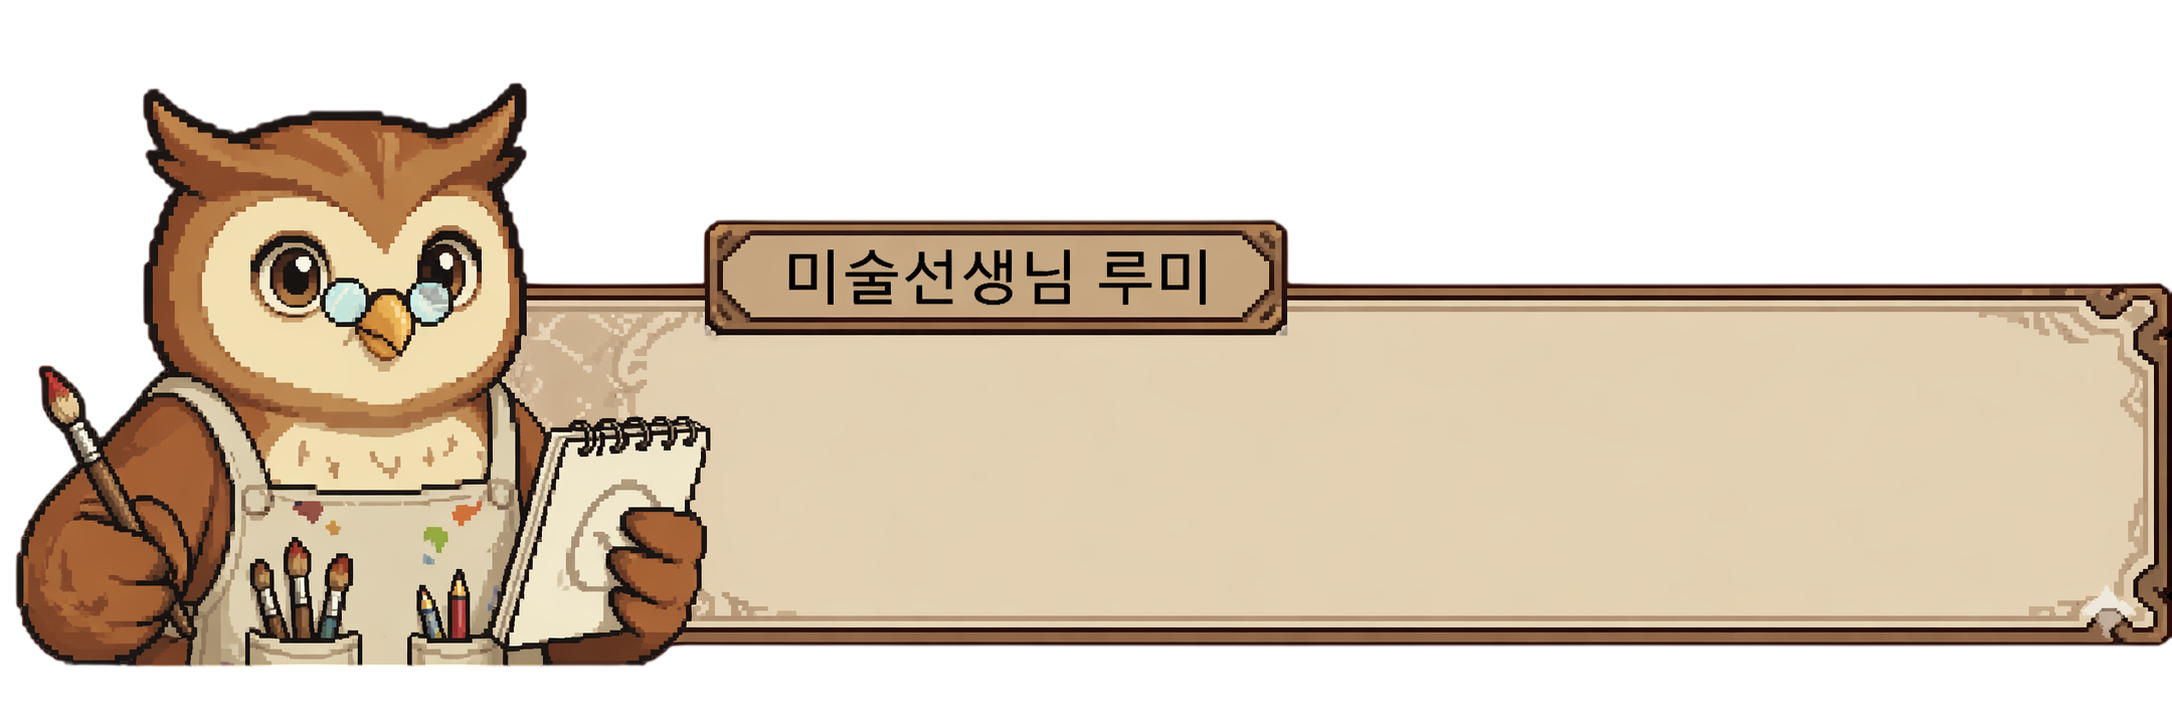
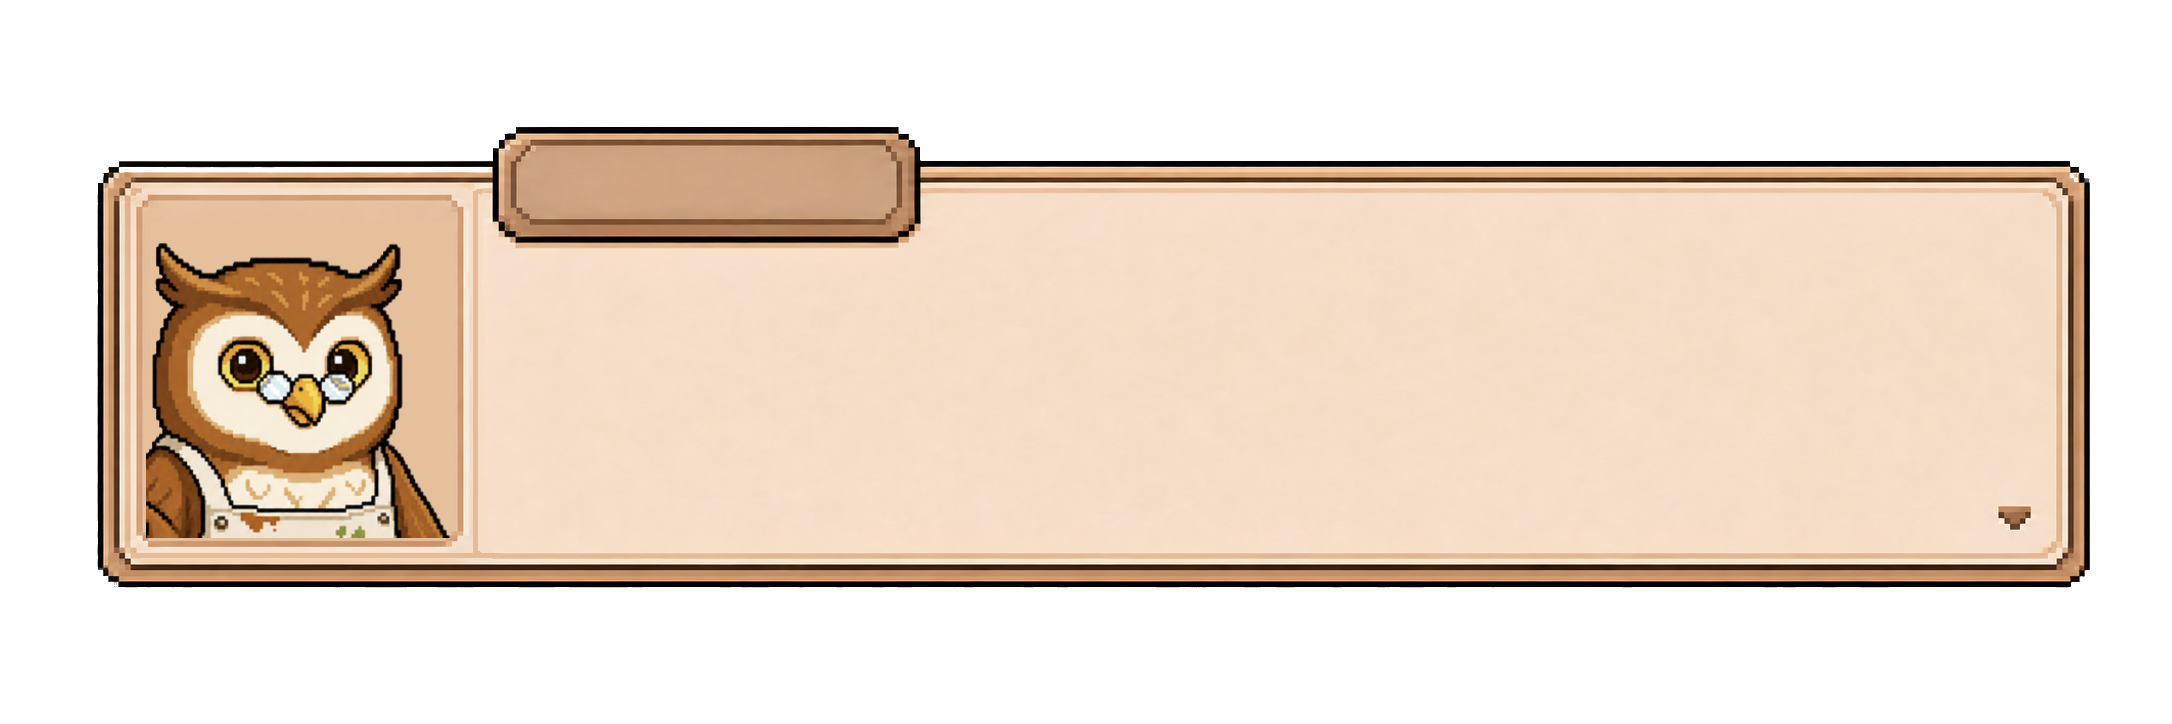
[S14P31E103-313] FE/feat: 카드/대화창 공용 컴포넌트 + 웹폰트 추가

diff --git a/frontend/apps/game/src/game/ui/cuteCard.ts b/frontend/apps/game/src/game/ui/cuteCard.ts
@@ -1,0 +1,174 @@
+import Phaser from 'phaser'
+
+export type CuteCardState = 'default' | 'hover' | 'selected'
+
+export type CuteCardPalette = {
+  /** Pastel accent for tag pills, borders, and the action button. */
+  accent: number
+  /** Same accent as a hex string for `Text.color`. */
+  accentHex: string
+  /** Soft drop-shadow color (usually a desaturated dark). */
+  shadow: number
+}
+
+// Shared warm-paper surface + warm-wood border so the cards read as a
+// physical, storybook-style card on top of any of the warm/wood themed
+// backgrounds (music, art, gymnastics, taekwondo). All cards share the same
+// outer frame; per-theme variation only lives in tag pills + buttons.
+const SURFACE_TOP = 0xfcf8f0
+const SURFACE_BOTTOM = 0xf3ecdd
+const INNER_STROKE = 0xddd0b8
+const BORDER_COLOR = 0xa8845a
+
+/** Accent presets — picked from the warm autumn / storybook palette. */
+export const CUTE_CARD_PALETTES = {
+  rose: {
+    accent: 0xc98477,
+    accentHex: '#a85b4d',
+    shadow: 0x3d1d1d,
+  },
+  sage: {
+    accent: 0x9ab186,
+    accentHex: '#5b7349',
+    shadow: 0x223021,
+  },
+  butter: {
+    accent: 0xe6b86a,
+    accentHex: '#8a5a1a',
+    shadow: 0x3d2f1d,
+  },
+  clay: {
+    accent: 0xb88a6a,
+    accentHex: '#6b4326',
+    shadow: 0x2e1c12,
+  },
+} as const satisfies Record<string, CuteCardPalette>
+
+/**
+ * Draws a bright, kid-friendly card panel onto the supplied Graphics object.
+ * The panel is anchored at (0, 0) so it works well inside a Container.
+ *
+ * Visual ingredients:
+ *   1. soft drop shadow (offset down)
+ *   2. cream surface with vertical gradient
+ *   3. inner top highlight band (light source from above)
+ *   4. accent border (thicker / brighter when active)
+ *
+ * The same helper is used for the music select cards but is intentionally
+ * theme-agnostic so it can be reused across other scenes (e.g., gymnastics
+ * mode picker, art picker, mini-game lobby).
+ */
+export function drawCuteCardPanel(
+  panel: Phaser.GameObjects.Graphics,
+  width: number,
+  height: number,
+  palette: CuteCardPalette,
+  state: CuteCardState = 'default',
+  cornerRadius = 28,
+) {
+  const w = width
+  const h = height
+  const r = cornerRadius
+  const active = state !== 'default'
+
+  panel.clear()
+
+  // 1. drop shadow — soft, offset slightly downward
+  const shadowSteps = 8
+  for (let i = 0; i < shadowSteps; i++) {
+    const spread = (shadowSteps - i) * 1.5
+    panel.fillStyle(palette.shadow, 0.025)
+    panel.fillRoundedRect(
+      -w / 2 - spread + 1,
+      -h / 2 - spread + 6,
+      w + spread * 2,
+      h + spread * 2,
+      r + spread * 0.4,
+    )
+  }
+
+  // 2. warm cream paper surface — flat, no banded highlight so the card reads
+  // as a single uninterrupted surface
+  panel.fillStyle(SURFACE_TOP, 1)
+  panel.fillRoundedRect(-w / 2, -h / 2, w, h, r)
+
+  // 3. very subtle warm tint at the bottom — gives a hint of paper depth
+  // without splitting the card into visible bands
+  const tintSteps = 8
+  const tintH = Math.min(h * 0.35, h - 12)
+  for (let i = 0; i < tintSteps; i++) {
+    const t = i / (tintSteps - 1)
+    panel.fillStyle(SURFACE_BOTTOM, 0.05 * t)
+    panel.fillRoundedRect(
+      -w / 2 + 8,
+      h / 2 - tintH + i * (tintH / tintSteps),
+      w - 16,
+      tintH / tintSteps + 1,
+      r - 6,
+    )
+  }
+
+  // 5. inner beige stroke — gives the storybook "drawn" outline a bit of weight
+  panel.lineStyle(1.5, INNER_STROKE, 0.55)
+  panel.strokeRoundedRect(-w / 2 + 4, -h / 2 + 4, w - 8, h - 8, r - 4)
+
+  // 6. unified warm-wood border — same on every card so the row reads as one set
+  const borderAlpha = active ? 1 : 0.9
+  const borderWidth = active ? 4 : 3
+  panel.lineStyle(borderWidth, BORDER_COLOR, borderAlpha)
+  panel.strokeRoundedRect(-w / 2, -h / 2, w, h, r)
+
+  // active glow halo — uses the per-card accent so selection state still pops
+  if (active) {
+    const halo = state === 'selected' ? 12 : 7
+    for (let i = 0; i < halo; i++) {
+      panel.lineStyle(1, palette.accent, 0.05 - i * 0.0035)
+      panel.strokeRoundedRect(-w / 2 - i, -h / 2 - i, w + i * 2, h + i * 2, r + i)
+    }
+  }
+}
+
+/**
+ * Draws a chunky pastel pill button (matches `drawCuteCardPanel`).
+ * Fills the supplied Graphics object; the button is centered around (cx, cy).
+ */
+export function drawCutePillButton(
+  graphics: Phaser.GameObjects.Graphics,
+  cx: number,
+  cy: number,
+  width: number,
+  height: number,
+  palette: CuteCardPalette,
+  state: CuteCardState = 'default',
+) {
+  const x = cx - width / 2
+  const y = cy - height / 2
+  const radius = height / 2
+
+  graphics.clear()
+
+  // outer glow when active
+  if (state !== 'default') {
+    const glowSteps = state === 'selected' ? 8 : 6
+    for (let i = 0; i < glowSteps; i++) {
+      graphics.fillStyle(palette.accent, 0.04)
+      graphics.fillRoundedRect(
+        x - 5 + i,
+        y - 5 + i,
+        width + 10 - i * 2,
+        height + 10 - i * 2,
+        radius + 5,
+      )
+    }
+  }
+
+  // solid pastel fill
+  graphics.fillStyle(palette.accent, state === 'default' ? 0.92 : 1)
+  graphics.fillRoundedRect(x, y, width, height, radius)
+  // top inner gloss (lighter band)
+  graphics.fillStyle(0xffffff, state === 'default' ? 0.28 : 0.38)
+  graphics.fillRoundedRect(x + 3, y + 3, width - 6, height / 2, radius)
+  // crisp white border
+  graphics.lineStyle(1.5, 0xffffff, state === 'default' ? 0.85 : 1)
+  graphics.strokeRoundedRect(x, y, width, height, radius)
+}

diff --git a/frontend/apps/game/src/game/ui/simpleDialog.ts b/frontend/apps/game/src/game/ui/simpleDialog.ts
@@ -18,6 +18,16 @@ type CreateSimpleDialogOptions = {
   fontSize?: number
   lineSpacing?: number
   frameBottomMargin?: number
+  nameBox?: SimpleDialogTextBox
+  nameText?: string
+  nameFontColor?: string
+  nameFontSize?: number
+  nameLetterSpacing?: number
+  /**
+   * Per-line optical offsets applied by `setCenteredDialogText` (subtracted from
+   * the centered Y). Tuned per dialog frame asset.
+   */
+  opticalOffsets?: { single?: number; double?: number; multi?: number }
 }
 
 export type SimpleDialogUi = {
@@ -27,6 +37,8 @@ export type SimpleDialogUi = {
   textBaseY: number
   textBoxHeight: number
   scale: number
+  nameLabel?: Phaser.GameObjects.Text
+  opticalOffsets: { single: number; double: number; multi: number }
 }
 
 export function createSimpleDialogUi(
@@ -42,8 +54,19 @@ export function createSimpleDialogUi(
     fontSize = 44,
     lineSpacing = 6,
     frameBottomMargin = -30,
+    nameBox,
+    nameText,
+    nameFontColor = '#fff8ec',
+    nameFontSize = 32,
+    nameLetterSpacing = 0,
+    opticalOffsets,
   }: CreateSimpleDialogOptions,
 ) {
+  const resolvedOffsets = {
+    single: opticalOffsets?.single ?? 34,
+    double: opticalOffsets?.double ?? 28,
+    multi: opticalOffsets?.multi ?? 8,
+  }
   const { width: vw, height: vh } = scene.scale
   const dialogWidth = Math.min(vw * dialogWidthRatio, maxDialogWidth)
   const frame = scene.add.image(vw / 2, vh - 80, frameKey)
@@ -67,16 +90,46 @@ export function createSimpleDialogUi(
   })
   text.setDepth(textDepth).setAlpha(0).setScrollFactor(0).setOrigin(0, 0)
 
-  return { frame, text, textBaseX, textBaseY, textBoxHeight, scale }
+  let nameLabel: Phaser.GameObjects.Text | undefined
+  if (nameBox && nameText) {
+    const nameCenterX = dialogLeft + (nameBox.x + nameBox.width / 2) * scale
+    const nameCenterY = dialogTop + (nameBox.y + nameBox.height / 2) * scale
+    nameLabel = scene.add.text(nameCenterX, nameCenterY, nameText, {
+      fontFamily: '"Pretendard", "Noto Sans KR", "Malgun Gothic", sans-serif',
+      fontSize: `${Math.round(nameFontSize * scale)}px`,
+      fontStyle: 'bold',
+      color: nameFontColor,
+    })
+    nameLabel
+      .setOrigin(0.5)
+      .setDepth(textDepth)
+      .setAlpha(0)
+      .setScrollFactor(0)
+      .setLetterSpacing(nameLetterSpacing * scale)
+  }
+
+  return {
+    frame,
+    text,
+    textBaseX,
+    textBaseY,
+    textBoxHeight,
+    scale,
+    nameLabel,
+    opticalOffsets: resolvedOffsets,
+  }
 }
 
 export function setCenteredDialogText(dialog: SimpleDialogUi, line: string) {
   dialog.text.setText(line)
   const lineCount = dialog.text.getWrappedText(dialog.text.text).length
-  const opticalOffset =
-    lineCount <= 1 ? 34 * dialog.scale : lineCount === 2 ? 28 * dialog.scale : 8 * dialog.scale
+  const offsets = dialog.opticalOffsets
+  const opticalOffsetUnits =
+    lineCount <= 1 ? offsets.single : lineCount === 2 ? offsets.double : offsets.multi
   const centeredY =
-    dialog.textBaseY + Math.max(0, (dialog.textBoxHeight - dialog.text.height) / 2) - opticalOffset
+    dialog.textBaseY +
+    Math.max(0, (dialog.textBoxHeight - dialog.text.height) / 2) -
+    opticalOffsetUnits * dialog.scale
 
   dialog.text.setPosition(dialog.textBaseX, centeredY)
 }
@@ -92,7 +145,8 @@ export function fadeSimpleDialog(
   alpha: number,
   duration: number,
 ) {
-  const targets = [dialog.frame, dialog.text]
+  const targets: Phaser.GameObjects.GameObject[] = [dialog.frame, dialog.text]
+  if (dialog.nameLabel) targets.push(dialog.nameLabel)
   scene.tweens.killTweensOf(targets)
   scene.tweens.add({
     targets,

diff --git a/frontend/apps/game/index.html b/frontend/apps/game/index.html
@@ -4,6 +4,19 @@
     <meta charset="UTF-8" />
     <meta name="viewport" content="width=device-width, initial-scale=1.0" />
     <title>WISH</title>
+    <link rel="preconnect" href="https://cdn.jsdelivr.net" crossorigin />
+    <link rel="preconnect" href="https://fonts.googleapis.com" />
+    <link rel="preconnect" href="https://fonts.gstatic.com" crossorigin />
+    <link
+      rel="stylesheet"
+      as="style"
+      crossorigin
+      href="https://cdn.jsdelivr.net/gh/orioncactus/pretendard@v1.3.9/dist/web/variable/pretendardvariable.min.css"
+    />
+    <link
+      href="https://fonts.googleapis.com/css2?family=Noto+Sans+KR:wght@400;500;700;900&display=swap"
+      rel="stylesheet"
+    />
     <style>
       * { margin: 0; padding: 0; box-sizing: border-box; }
       html, body, #root {